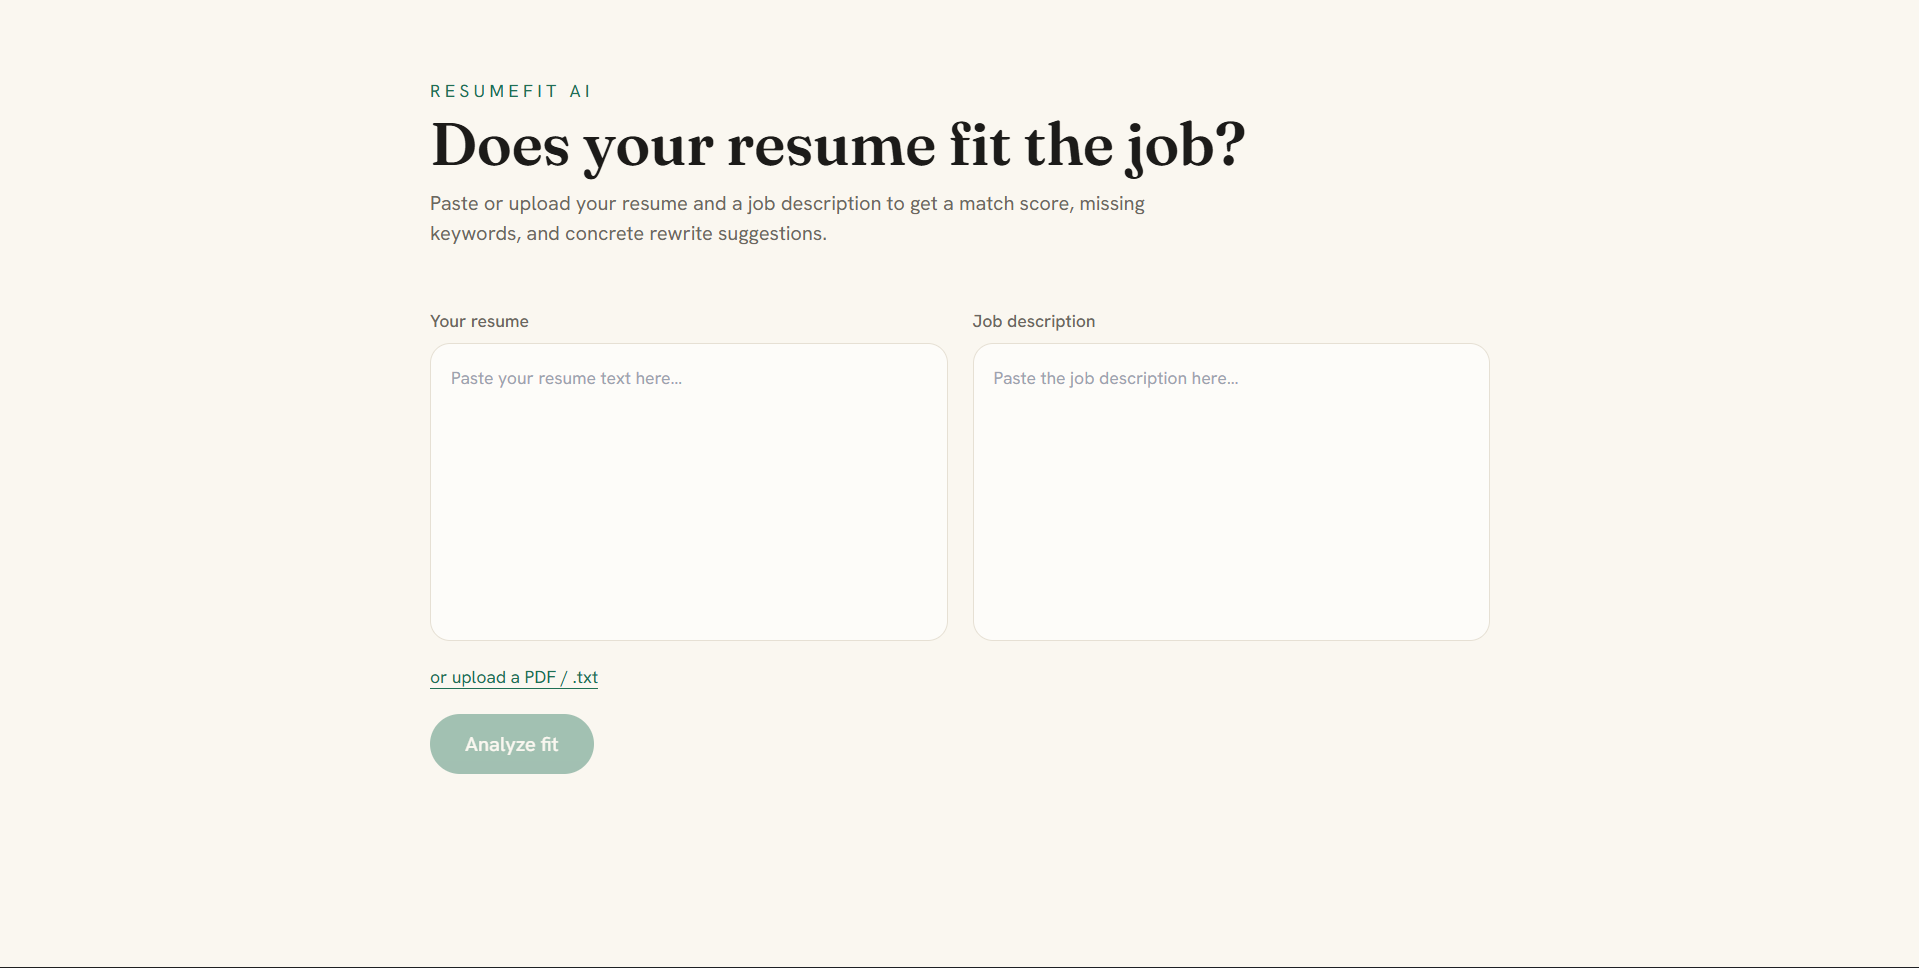
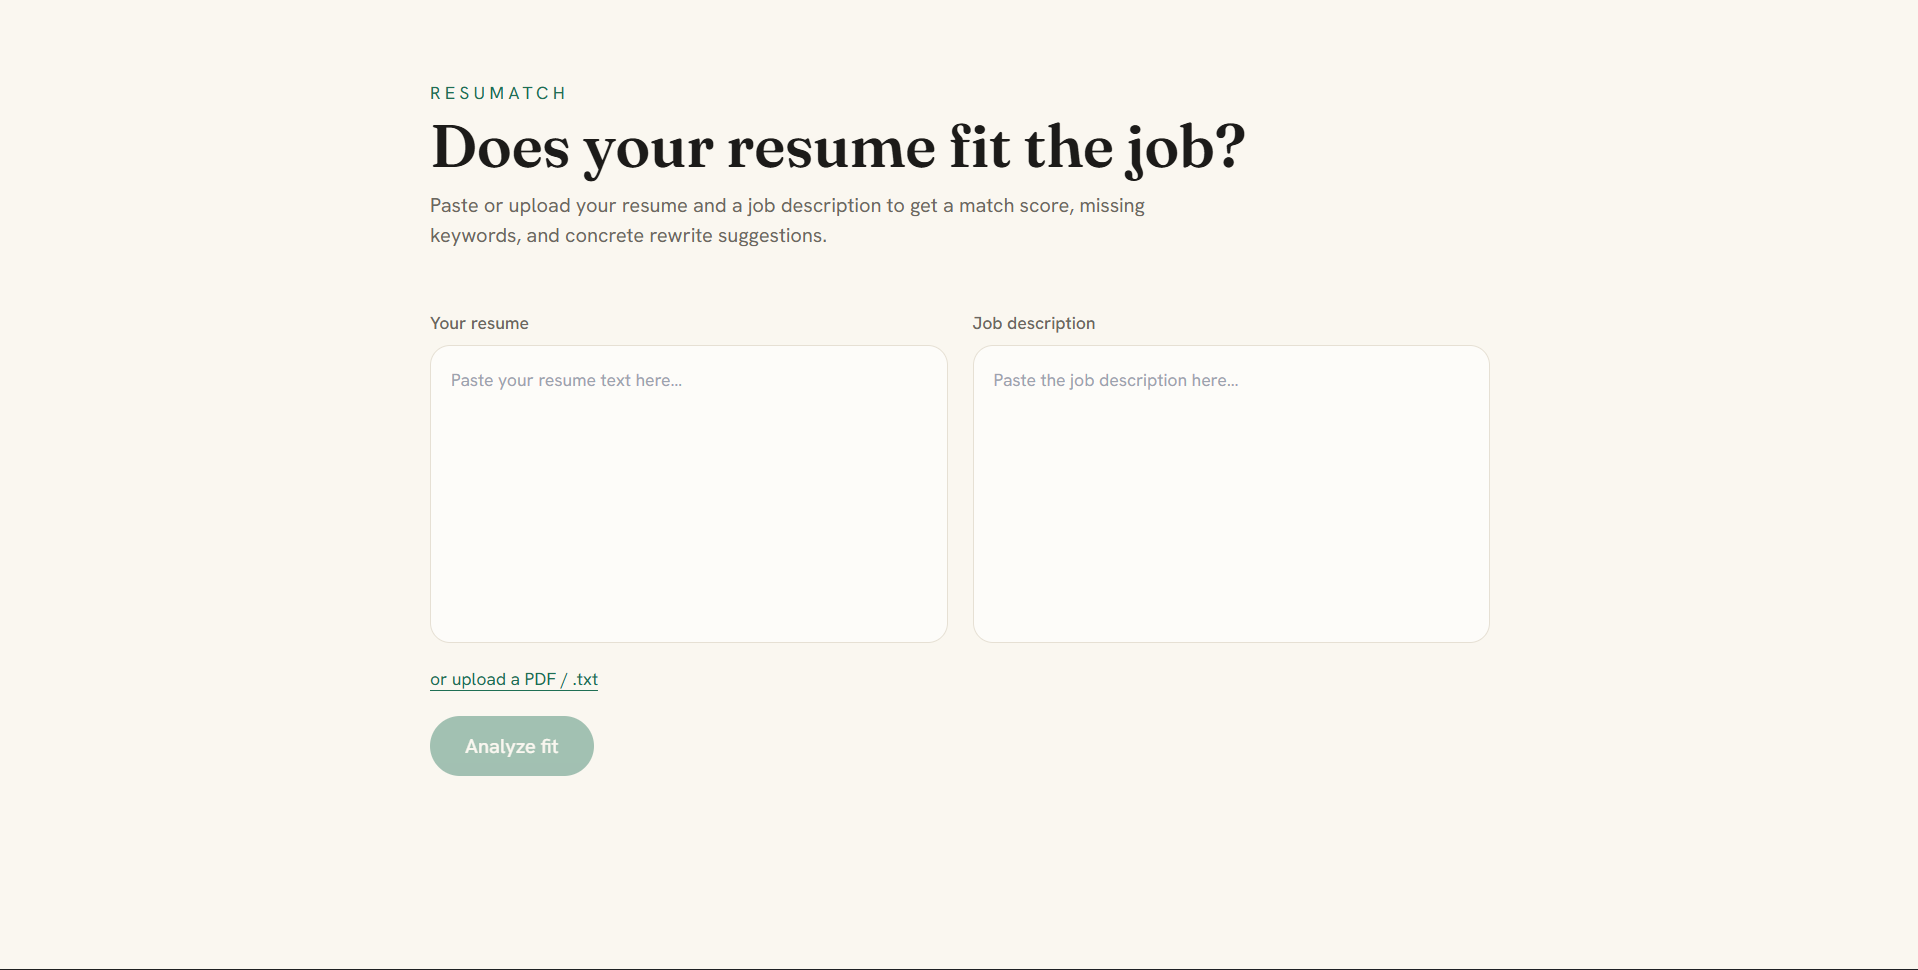
Update README and add app screenshot

diff --git a/README.md b/README.md
@@ -1,61 +1,77 @@
-# ResuMatch 🎯
+# ResuMatch
 
-> AI-powered Resume / Job-Fit Analyzer. Paste your resume and a job description to get a match score, missing keywords, and rewrite suggestions for weak bullet points.
+> Match your resume to the job — before you apply.
 
-🔗 **Live Demo:** _<add your deployed URL here>_
+ResuMatch scores how well your resume fits a specific job description, surfaces the
+keywords and skills you're missing, and rewrites your weak bullet points using your
+real experience — so you can tailor every application with confidence.
 
-![ResumeFit AI screenshot](docs/screenshot.png)
+![React](https://img.shields.io/badge/React-61DAFB?logo=react&logoColor=000)
+![FastAPI](https://img.shields.io/badge/FastAPI-009688?logo=fastapi&logoColor=fff)
+![Python](https://img.shields.io/badge/Python-3776AB?logo=python&logoColor=fff)
+![Google Gemini](https://img.shields.io/badge/Google%20Gemini-8E75B2?logo=googlegemini&logoColor=fff)
+
+**Live Demo:** https://resumatch.vercel.app
+
+> Note: the backend runs on a free tier that sleeps after inactivity, so the first
+> analysis after a while may take ~50 seconds to wake up. It's fast afterward.
+
+![ResuMatch screenshot](docs/screenshot.png)
 
 ---
 
-## ✨ Features
+## Features
 
 - **Match score (0–100)** between a resume and a target job description
-- **Missing keywords / skills** the resume should mention
-- **Rewrite suggestions** for weak resume bullets
-- **Analysis history** (when logged in) *(optional)*
+- **Missing keywords / skills** the job wants that your resume doesn't surface
+- **Bullet rewrites** that strengthen your *real* experience — no fabrication
+- **Paste or upload** your resume — supports `.pdf` and `.txt` files
+- **Resilient AI calls** — automatic retry with backoff when the model is busy
 - Clean, responsive UI
 
 ---
 
-## 🛠 Tech Stack
+## Tech Stack
 
-**Frontend:** React · Vite · TypeScript · Tailwind CSS
-**Backend:** Python · FastAPI
-**Database:** PostgreSQL · SQLModel
-**AI:** Google Gemini API (Gemini 2.5 Flash)
-**Deploy:** Vercel · Render · Neon
+- **Frontend:** React · Vite · TypeScript · Tailwind CSS
+- **Backend:** Python · FastAPI
+- **AI:** Google Gemini API (Gemini 2.5 Flash)
+- **PDF parsing:** pdfplumber
+- **Deploy:** Vercel (frontend) · Render (backend)
 
-<!-- Optional shields.io badges:
-![Python](https://img.shields.io/badge/Python-3.12-blue)
-![FastAPI](https://img.shields.io/badge/FastAPI-009688)
-![React](https://img.shields.io/badge/React-61DAFB)
--->
+> Planned: PostgreSQL · SQLModel for saved analysis history.
 
 ---
 
-## ⚙️ How It Works
+## How It Works
 
-1. The user submits a resume and a job description from the React frontend.
-2. FastAPI sends a structured prompt to the Gemini API.
-3. Gemini returns a JSON report (score, missing keywords, suggestions).
-4. The frontend renders the report; logged-in users have it saved to PostgreSQL.
+1. The user submits a resume (pasted text or an uploaded `.pdf`/`.txt`) and a job
+   description from the React frontend.
+2. For file uploads, the FastAPI backend extracts the text with pdfplumber.
+3. The backend sends a structured prompt to the Gemini API, requesting a fixed
+   JSON shape.
+4. Gemini returns the analysis as structured JSON (score, missing keywords,
+   suggestions, summary).
+5. The frontend renders the report. The same data shape is shared across the
+   frontend, backend, and AI — one contract end to end.
 
 ---
 
-## 🚀 Getting Started (Local)
+## Getting Started (Local)
 
 ### Prerequisites
 - Node.js 18+
 - Python 3.11+
-- A free [Gemini API key](https://ai.google.dev)
+- A free [Gemini API key](https://aistudio.google.com/apikey)
 
 ### Backend
 ```bash
 cd backend
-python -m venv venv && source venv/bin/activate   # Windows: venv\Scripts\activate
+python -m venv venv
+# Windows (PowerShell): venv\Scripts\Activate.ps1
+# macOS / Linux:        source venv/bin/activate
 pip install -r requirements.txt
-cp .env.example .env        # then add your GEMINI_API_KEY
+# copy .env.example to .env, then add your GEMINI_API_KEY
 uvicorn main:app --reload
 ```
 API docs available at `http://localhost:8000/docs`.
@@ -67,36 +83,45 @@ npm install
 npm run dev
 ```
 App runs at `http://localhost:5173`.
+(Optionally set `VITE_API_URL` in `frontend/.env`; it defaults to `http://localhost:8000`.)
 
 ---
 
-## 🔑 Environment Variables
+## Environment Variables
 
-| Variable | Description |
-|----------|-------------|
-| `GEMINI_API_KEY` | Your Google Gemini API key |
-| `DATABASE_URL` | PostgreSQL connection string (optional) |
+| Variable | Where | Description |
+|----------|-------|-------------|
+| `GEMINI_API_KEY` | Backend | Your Google Gemini API key (required) |
+| `ALLOWED_ORIGINS` | Backend | Comma-separated frontend origins allowed by CORS (defaults to localhost) |
+| `VITE_API_URL` | Frontend | Base URL of the backend (defaults to `http://localhost:8000`) |
 
 ---
 
-## 📌 API
+## API
 
 | Method | Endpoint | Description |
 |--------|----------|-------------|
-| `POST` | `/analyze` | Returns a match report for a resume + job description |
+| `GET` | `/` | Health / status check |
+| `POST` | `/analyze` | Analyze pasted resume text against a job description |
+| `POST` | `/analyze/file` | Analyze an uploaded `.pdf`/`.txt` resume against a job description |
 
 ---
 
-## 🗺 Roadmap
+## Roadmap
 
-- [ ] PDF/`.txt` resume upload
-- [ ] User accounts + analysis history
+- [x] PDF / `.txt` resume upload
+- [x] Ground AI suggestions in real experience (no fabrication)
+- [x] Deployed live demo (Vercel + Render)
+- [ ] User accounts + saved analysis history
 - [ ] PDF export of reports
 - [ ] Compare one resume against multiple jobs
 
 ---
 
-## 👤 Author
+## Author
 
-**Kurt Laurence P. Carcueva** — _<kurtcarcueva-portfolio.vercel.app / www.linkedin.com/ in/kurt-carcueva-b51650362 / [email redacted]>_
+**Kurt Laurence P. Carcueva**
 
+- Portfolio: https://kurtcarcueva-portfolio.vercel.app
+- LinkedIn: https://www.linkedin.com/in/kurt-carcueva-b51650362
+- Email: [email redacted]